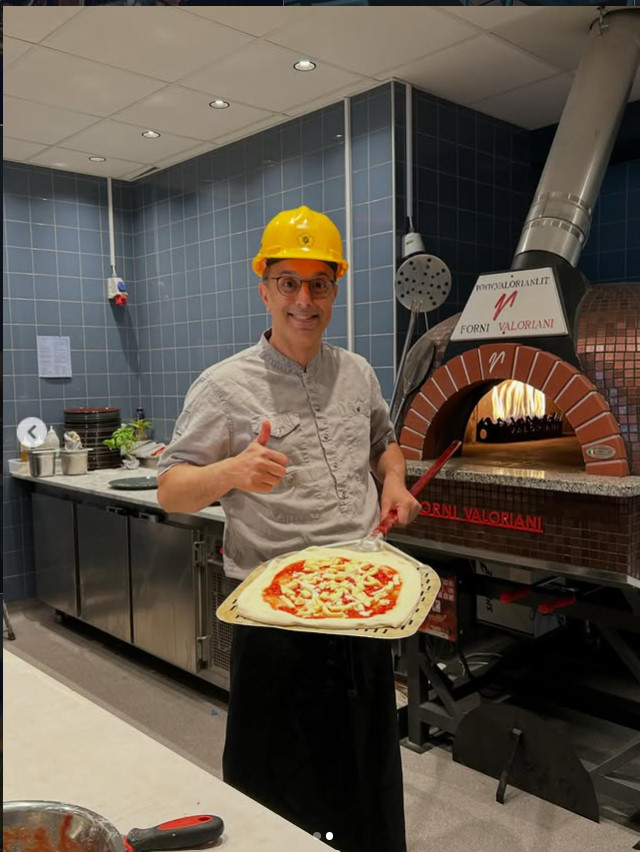
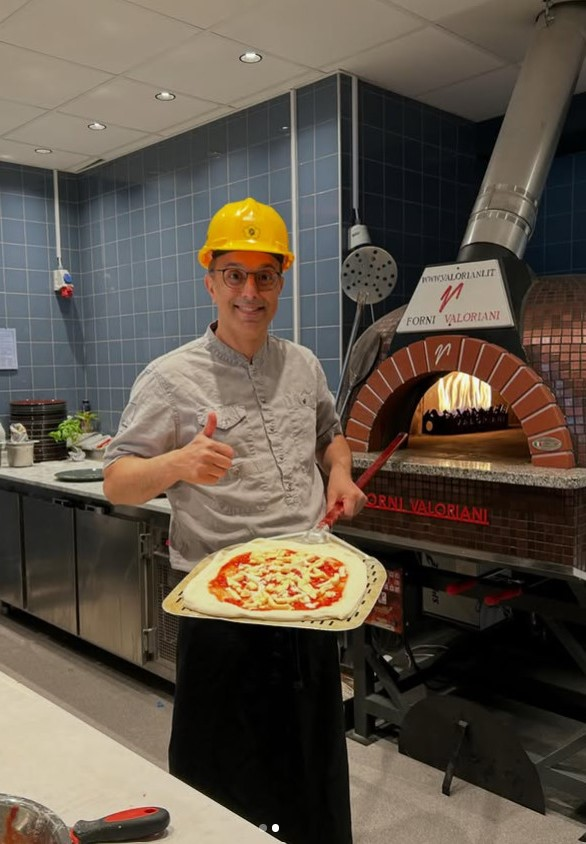
Update header background transparency and adjust mobile menu breakpoint

diff --git a/index.html b/index.html
@@ -20,9 +20,9 @@
     <header>
         <div class="container nav-container">
             <!-- Logo from assets/logo.webp -->
-            <a href="index.html" class="logo-container" aria-label="Don & Dolores Home">
+            <!-- <a href="index.html" class="logo-container" aria-label="Don & Dolores Home">
                 <img src="assets/logo.webp" alt="Don & Dolores Logo" class="logo-img">
-            </a>
+            </a> -->
 
             <!-- Nav Menu Links (Matched to screenshot exactly) -->
             <nav>
@@ -55,7 +55,7 @@
         <div class="hero-overlay"></div>
         <div class="container text-center">
             <!-- Centered Boxed Logo inside Hero -->
-            <div class="hero-logo-wrap" style="margin-bottom: 2rem;">
+            <div class="hero-logo-wrap" style="margin-top: 10rem;margin-bottom: 0px;">
                 <img src="assets/logo.webp" alt="Don & Dolores Logo" class="hero-logo-img"
                     style="width: 220px; height: auto;">
             </div>
@@ -94,9 +94,11 @@
                 </div>
                 <div class="welcome-content">
                     <span class="welcome-subtitle">WELCOME TO OUR HOME</span>
-                    <h2 class="welcome-title" style="margin-bottom: 2rem;">Don <span class="classic-amp">&amp;</span> <span
-                            class="italic-title-part">Dolores</span></h2>
-                    <p class="welcome-text">In the heart of Skellefteå's city center, Don <span class="classic-amp">&amp;</span> Dolores offers a fusion
+                    <h2 class="welcome-title" style="margin-bottom: 2rem;">Don <span class="classic-amp">&amp;</span>
+                        <span class="italic-title-part">Dolores</span>
+                    </h2>
+                    <p class="welcome-text">In the heart of Skellefteå's city center, Don <span
+                            class="classic-amp">&amp;</span> Dolores offers a fusion
                         between
                         the Swedish and the Italian. Here we let simple, good food made from great ingredients leave
                         room for conversation
@@ -109,7 +111,8 @@
                         Neapolitan pizza, handmade pasta, antipasti and cocktails — open every day of the week.
                     </div>
                     <div class="welcome-tag-pill">
-                        <span class="pill-icon">✦</span> A FUSION OF SWEDISH <span class="classic-amp">&amp;</span> ITALIAN
+                        <span class="pill-icon">✦</span> A FUSION OF SWEDISH <span class="classic-amp">&amp;</span>
+                        ITALIAN
                     </div>
                 </div>
             </div>
@@ -121,11 +124,14 @@
         <div class="container">
             <div class="welcome-grid">
                 <div class="welcome-content">
-                    <span class="welcome-subtitle">THE MAN BEHIND DON <span class="classic-amp">&amp;</span> DOLORES</span>
+                    <span class="welcome-subtitle">THE MAN BEHIND DON <span class="classic-amp">&amp;</span>
+                        DOLORES</span>
                     <h2 class="welcome-title" style="margin-bottom: 2rem;">Abbas <span
                             class="italic-title-part">Azemi</span></h2>
-                    <p class="welcome-text">Abbas Azemi is the founder of Don <span class="classic-amp">&amp;</span> Dolores. His passion for food
-                        combined with constantly exploring and evolving has led him to Don <span class="classic-amp">&amp;</span> Dolores.</p>
+                    <p class="welcome-text">Abbas Azemi is the founder of Don <span class="classic-amp">&amp;</span>
+                        Dolores. His passion for food
+                        combined with constantly exploring and evolving has led him to Don <span
+                            class="classic-amp">&amp;</span> Dolores.</p>
                     <div class="founder-quote">
                         "I want every guest to feel welcome — like at home, but a little tastier."
                     </div>
@@ -148,7 +154,8 @@
                     <span class="section-tag">ABOUT US</span>
                     <h2>A fusion of cultures</h2>
                     <p class="philosophy-text">
-                        Here at Don <span class="classic-amp">&amp;</span> Dolores, the deep flavors of Norrland intertwine with the rich Italian
+                        Here at Don <span class="classic-amp">&amp;</span> Dolores, the deep flavors of Norrland
+                        intertwine with the rich Italian
                         food culture. We take local northern ingredients and prepare them with true Italian love.
                         The result is simple, flavorful, and uncomplicated dishes that invite you to gather.
                     </p>
@@ -159,7 +166,8 @@
                         </div>
                         <div class="highlight-item">
                             <h4>Atmosphere <span class="classic-amp">&amp;</span> joy</h4>
-                            <p>A warm meeting place in the middle of town where conversations flow as freely as the wine.</p>
+                            <p>A warm meeting place in the middle of town where conversations flow as freely as the
+                                wine.</p>
                         </div>
                     </div>
                 </div>
@@ -194,7 +202,8 @@
                         <div>
                             <h3 class="event-title" style="font-family: 'Playfair Display', serif;">Neapolitan pizza
                             </h3>
-                            <p class="event-desc" style="margin-bottom: 1.5rem;">Authentic wood-fired pizzas made with San
+                            <p class="event-desc" style="margin-bottom: 1.5rem;">Authentic wood-fired pizzas made with
+                                San
                                 Marzano tomatoes, fresh mozzarella, and local ingredients.</p>
                         </div>
                         <a href="menu.html#pizza-category" class="activities-bottom-card-link">View pizzas &rarr;</a>
@@ -249,8 +258,10 @@
         <div class="container">
             <div class="activities-header">
                 <span class="activities-subtitle">The week with us</span>
-                <h2 class="activities-title">Activities <span class="classic-amp">&amp;</span> <span class="italic-title-part">events</span></h2>
-                <p class="activities-desc">There is always something happening at Don <span class="classic-amp">&amp;</span> Dolores. Here is a taste of what we
+                <h2 class="activities-title">Activities <span class="classic-amp">&amp;</span> <span
+                        class="italic-title-part">events</span></h2>
+                <p class="activities-desc">There is always something happening at Don <span
+                        class="classic-amp">&amp;</span> Dolores. Here is a taste of what we
                     have in store for you.</p>
             </div>
 
@@ -272,7 +283,8 @@
                         style="width: 100%; height: 200px; object-fit: cover; border-radius: 8px; margin-bottom: 1.5rem;">
                     <span class="activities-card-tag">Monthly</span>
                     <h3 class="activities-card-title">Quiz nights</h3>
-                    <p class="activities-card-body">Gather your team and compete in our popular quiz nights! Keep an eye on
+                    <p class="activities-card-body">Gather your team and compete in our popular quiz nights! Keep an eye
+                        on
                         our social media for dates and registration. Exciting prizes await.</p>
                 </div>
 
@@ -282,15 +294,16 @@
                         style="width: 100%; height: 200px; object-fit: cover; border-radius: 8px; margin-bottom: 1.5rem;">
                     <span class="activities-card-tag">Saturdays</span>
                     <h3 class="activities-card-title">Saturday pulse</h3>
-                    <p class="activities-card-body">Saturday nights are all about music. Troubadours, live bands, and DJs
+                    <p class="activities-card-body">Saturday nights are all about music. Troubadours, live bands, and
+                        DJs
                         create the perfect atmosphere for a memorable evening.</p>
                 </div>
             </div>
 
             <!-- Monthly Calendar Button -->
             <div class="activities-calendar-btn-wrap">
-                <a href="https://www.instagram.com/dondolores_skelleftea/" target="_blank"
-                    class="btn-calendar">Monthly calendar</a>
+                <a href="https://www.instagram.com/dondolores_skelleftea/" target="_blank" class="btn-calendar">Monthly
+                    calendar</a>
             </div>
 
             <!-- Bottom Row Grid (3 Cards) -->
@@ -331,8 +344,7 @@
             </div>
             <div class="faq-accordion" style="max-width: 800px; margin: 0 auto;">
                 <div class="faq-item">
-                    <button class="faq-question">How can I book a table?<span
-                            class="faq-icon">+</span></button>
+                    <button class="faq-question">How can I book a table?<span class="faq-icon">+</span></button>
                     <div class="faq-answer">
                         <p>You can book a table via our website or by contacting us directly by phone or email.</p>
                     </div>
@@ -341,20 +353,24 @@
                     <button class="faq-question">Do you offer vegetarian or vegan options?<span
                             class="faq-icon">+</span></button>
                     <div class="faq-answer">
-                        <p>Yes, we offer a variety of vegetarian options and can accommodate vegan preferences upon request. Our goal is to ensure everyone has a great dining experience.</p>
+                        <p>Yes, we offer a variety of vegetarian options and can accommodate vegan preferences upon
+                            request. Our goal is to ensure everyone has a great dining experience.</p>
                     </div>
                 </div>
                 <div class="faq-item">
-                    <button class="faq-question">Do you have gluten-free options?<span class="faq-icon">+</span></button>
+                    <button class="faq-question">Do you have gluten-free options?<span
+                            class="faq-icon">+</span></button>
                     <div class="faq-answer">
-                        <p>Yes, we offer gluten free options for customers with dietary restrictions, please inform our staff when ordering so we can assist you.</p>
+                        <p>Yes, we offer gluten free options for customers with dietary restrictions, please inform our
+                            staff when ordering so we can assist you.</p>
                     </div>
                 </div>
                 <div class="faq-item">
                     <button class="faq-question">Do you offer on-site dining, takeout or delivery?<span
                             class="faq-icon">+</span></button>
                     <div class="faq-answer">
-                        <p>We offer dine-in and takeout. Delivery options may vary – please contact us directly for current options.</p>
+                        <p>We offer dine-in and takeout. Delivery options may vary – please contact us directly for
+                            current options.</p>
                     </div>
                 </div>
             </div>
@@ -362,28 +378,40 @@
     </section>
 
     <!-- 6. FOOTER SECTION -->
-        <footer id="kontakt" style="background-color: #2e2d4d; color: #ffffff; padding: 4rem 0 2rem 0; font-family: 'Inter', sans-serif;">
+    <footer id="kontakt"
+        style="background-color: #2e2d4d; color: #ffffff; padding: 4rem 0 2rem 0; font-family: 'Inter', sans-serif;">
         <div class="container footer-grid" style="display: grid; grid-template-columns: repeat(4, 1fr); gap: 2rem;">
             <!-- Col 1: Brand Info -->
             <div class="footer-col">
-                <h3 style="font-family: 'Inter', sans-serif; font-weight: 500; font-size: 1.1rem; margin-bottom: 1.5rem; letter-spacing: 0.5px;">Don <span class="classic-amp">&amp;</span> Dolores</h3>
-                <p style="font-size: 0.85rem; line-height: 1.6; opacity: 0.9; margin-bottom: 1.5rem;">A fusion between Swedish and Italian. Simple, tasty food made with good ingredients that gives room for conversation and joy.</p>
+                <h3
+                    style="font-family: 'Inter', sans-serif; font-weight: 500; font-size: 1.1rem; margin-bottom: 1.5rem; letter-spacing: 0.5px;">
+                    Don <span class="classic-amp">&amp;</span> Dolores</h3>
+                <p style="font-size: 0.85rem; line-height: 1.6; opacity: 0.9; margin-bottom: 1.5rem;">A fusion between
+                    Swedish and Italian. Simple, tasty food made with good ingredients that gives room for conversation
+                    and joy.</p>
                 <div class="footer-socials" style="display: flex; gap: 10px;">
-                    <a href="https://www.facebook.com/dondolores.skelleftea/" target="_blank" aria-label="Facebook" style="display: flex; align-items: center; justify-content: center; width: 28px; height: 28px; background-color: #ffffff; border-radius: 50%; color: #2e2d4d;">
+                    <a href="https://www.facebook.com/dondolores.skelleftea/" target="_blank" aria-label="Facebook"
+                        style="display: flex; align-items: center; justify-content: center; width: 28px; height: 28px; background-color: #ffffff; border-radius: 50%; color: #2e2d4d;">
                         <svg width="14" height="14" viewBox="0 0 24 24" fill="currentColor">
-                            <path d="M18 2h-3a5 5 0 0 0-5 5v3H7v4h3v8h4v-8h3l1-4h-4V7a1 1 0 0 1 1-1h3z" stroke="currentColor" stroke-width="1.5" stroke-linecap="round" stroke-linejoin="round"/>
+                            <path d="M18 2h-3a5 5 0 0 0-5 5v3H7v4h3v8h4v-8h3l1-4h-4V7a1 1 0 0 1 1-1h3z"
+                                stroke="currentColor" stroke-width="1.5" stroke-linecap="round"
+                                stroke-linejoin="round" />
                         </svg>
                     </a>
-                    <a href="https://www.instagram.com/dondolores_skelleftea/" target="_blank" aria-label="Instagram" style="display: flex; align-items: center; justify-content: center; width: 28px; height: 28px; background-color: #ffffff; border-radius: 50%; color: #2e2d4d;">
-                        <svg width="14" height="14" viewBox="0 0 24 24" fill="none" stroke="currentColor" stroke-width="1.5" stroke-linecap="round" stroke-linejoin="round">
+                    <a href="https://www.instagram.com/dondolores_skelleftea/" target="_blank" aria-label="Instagram"
+                        style="display: flex; align-items: center; justify-content: center; width: 28px; height: 28px; background-color: #ffffff; border-radius: 50%; color: #2e2d4d;">
+                        <svg width="14" height="14" viewBox="0 0 24 24" fill="none" stroke="currentColor"
+                            stroke-width="1.5" stroke-linecap="round" stroke-linejoin="round">
                             <rect x="2" y="2" width="20" height="20" rx="5" ry="5"></rect>
                             <path d="M16 11.37A4 4 0 1 1 12.63 8 4 4 0 0 1 16 11.37z"></path>
                             <line x1="17.5" y1="6.5" x2="17.51" y2="6.5"></line>
                         </svg>
                     </a>
-                    <a href="#" aria-label="Tiktok" style="display: flex; align-items: center; justify-content: center; width: 28px; height: 28px; background-color: #ffffff; border-radius: 50%; color: #2e2d4d;">
+                    <a href="#" aria-label="Tiktok"
+                        style="display: flex; align-items: center; justify-content: center; width: 28px; height: 28px; background-color: #ffffff; border-radius: 50%; color: #2e2d4d;">
                         <svg width="14" height="14" viewBox="0 0 24 24" fill="currentColor">
-                            <path d="M12.525.02c1.31-.02 2.61-.01 3.91-.02.08 1.53.63 3.09 1.75 4.17 1.12 1.11 2.7 1.62 4.24 1.79v4.03c-1.44-.17-2.86-.74-3.99-1.72-.08-.07-.17-.17-.24-.26v6.23c.12 5.64-5.06 10.42-10.74 9.75-5.18-.5-9.35-5.26-8.9-10.49.39-4.83 4.67-8.77 9.53-8.25.13.01.26.04.39.06v4.09c-.1-.03-.21-.05-.31-.06-2.6-.33-5.02 1.34-5.55 3.91-.67 3.06 1.42 6.11 4.5 6.46 2.92.36 5.8-1.57 6.22-4.47.08-.5.06-1.02.06-1.53V.02z"/>
+                            <path
+                                d="M12.525.02c1.31-.02 2.61-.01 3.91-.02.08 1.53.63 3.09 1.75 4.17 1.12 1.11 2.7 1.62 4.24 1.79v4.03c-1.44-.17-2.86-.74-3.99-1.72-.08-.07-.17-.17-.24-.26v6.23c.12 5.64-5.06 10.42-10.74 9.75-5.18-.5-9.35-5.26-8.9-10.49.39-4.83 4.67-8.77 9.53-8.25.13.01.26.04.39.06v4.09c-.1-.03-.21-.05-.31-.06-2.6-.33-5.02 1.34-5.55 3.91-.67 3.06 1.42 6.11 4.5 6.46 2.92.36 5.8-1.57 6.22-4.47.08-.5.06-1.02.06-1.53V.02z" />
                         </svg>
                     </a>
                 </div>
@@ -391,25 +419,31 @@
 
             <!-- Col 2: Contact -->
             <div class="footer-col">
-                <h3 style="font-family: 'Inter', sans-serif; font-weight: 500; font-size: 1.1rem; margin-bottom: 1.5rem; letter-spacing: 0.5px;">Contact</h3>
+                <h3
+                    style="font-family: 'Inter', sans-serif; font-weight: 500; font-size: 1.1rem; margin-bottom: 1.5rem; letter-spacing: 0.5px;">
+                    Contact</h3>
                 <ul class="contact-list" style="list-style:none; padding:0; font-size: 0.85rem; opacity: 0.9;">
                     <li style="display:flex; align-items:center; gap: 8px; margin-bottom:12px;">
-                        <svg width="14" height="14" viewBox="0 0 24 24" fill="none" stroke="currentColor" stroke-width="2" stroke-linecap="round" stroke-linejoin="round">
-                            <path d="M22 16.92v3a2 2 0 0 1-2.18 2 19.79 19.79 0 0 1-8.63-3.07 19.5 19.5 0 0 1-6-6 19.79 19.79 0 0 1-3.07-8.67A2 2 0 0 1 4.11 2h3a2 2 0 0 1 2 1.72 12.84 12.84 0 0 0 .7 2.81 2 2 0 0 1-.45 2.11L8.09 9.91a16 16 0 0 0 6 6l1.27-1.27a2 2 0 0 1 2.11-.45 12.84 12.84 0 0 0 2.81.7A2 2 0 0 1 22 16.92z"/>
+                        <svg width="14" height="14" viewBox="0 0 24 24" fill="none" stroke="currentColor"
+                            stroke-width="2" stroke-linecap="round" stroke-linejoin="round">
+                            <path
+                                d="M22 16.92v3a2 2 0 0 1-2.18 2 19.79 19.79 0 0 1-8.63-3.07 19.5 19.5 0 0 1-6-6 19.79 19.79 0 0 1-3.07-8.67A2 2 0 0 1 4.11 2h3a2 2 0 0 1 2 1.72 12.84 12.84 0 0 0 .7 2.81 2 2 0 0 1-.45 2.11L8.09 9.91a16 16 0 0 0 6 6l1.27-1.27a2 2 0 0 1 2.11-.45 12.84 12.84 0 0 0 2.81.7A2 2 0 0 1 22 16.92z" />
                         </svg>
                         <a href="tel:+46910790070">+46 910 79 00 70</a>
                     </li>
                     <li style="display:flex; align-items:center; gap: 8px; margin-bottom:12px;">
-                        <svg width="14" height="14" viewBox="0 0 24 24" fill="none" stroke="currentColor" stroke-width="2" stroke-linecap="round" stroke-linejoin="round">
-                            <path d="M4 4h16c1.1 0 2 .9 2 2v12c0 1.1-.9 2-2 2H4c-1.1 0-2-.9-2-2V6c0-1.1.9-2 2-2z"/>
-                            <polyline points="22,6 12,13 2,6"/>
+                        <svg width="14" height="14" viewBox="0 0 24 24" fill="none" stroke="currentColor"
+                            stroke-width="2" stroke-linecap="round" stroke-linejoin="round">
+                            <path d="M4 4h16c1.1 0 2 .9 2 2v12c0 1.1-.9 2-2 2H4c-1.1 0-2-.9-2-2V6c0-1.1.9-2 2-2z" />
+                            <polyline points="22,6 12,13 2,6" />
                         </svg>
                         <a href="mailto:[email redacted]">[email redacted]</a>
                     </li>
                     <li style="display:flex; align-items:flex-start; gap: 8px;">
-                        <svg width="14" height="14" viewBox="0 0 24 24" fill="none" stroke="currentColor" stroke-width="2" stroke-linecap="round" stroke-linejoin="round" style="margin-top: 3px;">
-                            <path d="M21 10c0 7-9 13-9 13s-9-6-9-13a9 9 0 0 1 18 0z"/>
-                            <circle cx="12" cy="10" r="3"/>
+                        <svg width="14" height="14" viewBox="0 0 24 24" fill="none" stroke="currentColor"
+                            stroke-width="2" stroke-linecap="round" stroke-linejoin="round" style="margin-top: 3px;">
+                            <path d="M21 10c0 7-9 13-9 13s-9-6-9-13a9 9 0 0 1 18 0z" />
+                            <circle cx="12" cy="10" r="3" />
                         </svg>
                         <a href="#" target="_blank">Kanalgatan 43, 931 29<br>Skelleftea, Sweden</a>
                     </li>
@@ -418,8 +452,11 @@
 
             <!-- Col 3: Quick Links -->
             <div class="footer-col">
-                <h3 style="font-family: 'Inter', sans-serif; font-weight: 500; font-size: 1.1rem; margin-bottom: 1.5rem; letter-spacing: 0.5px;">Quick links</h3>
-                <ul class="footer-links" style="list-style:none; padding:0; font-size: 0.85rem; text-transform: uppercase; line-height: 2; opacity: 0.9;">
+                <h3
+                    style="font-family: 'Inter', sans-serif; font-weight: 500; font-size: 1.1rem; margin-bottom: 1.5rem; letter-spacing: 0.5px;">
+                    Quick links</h3>
+                <ul class="footer-links"
+                    style="list-style:none; padding:0; font-size: 0.85rem; text-transform: uppercase; line-height: 2; opacity: 0.9;">
                     <li><a href="menu.html">MENU</a></li>
                     <li><a href="index.html#aktiviteter">ACTIVITIES</a></li>
                     <li><a href="gallery.html">GALLERY</a></li>
@@ -431,8 +468,11 @@
 
             <!-- Col 4: Opening hours -->
             <div class="footer-col">
-                <h3 style="font-family: 'Inter', sans-serif; font-weight: 500; font-size: 1.1rem; margin-bottom: 1.5rem; letter-spacing: 0.5px;">Opening hours</h3>
-                <div class="hours-list" style="font-size: 0.85rem; opacity: 0.9; display: grid; grid-template-columns: 1fr auto; row-gap: 4px;">
+                <h3
+                    style="font-family: 'Inter', sans-serif; font-weight: 500; font-size: 1.1rem; margin-bottom: 1.5rem; letter-spacing: 0.5px;">
+                    Opening hours</h3>
+                <div class="hours-list"
+                    style="font-size: 0.85rem; opacity: 0.9; display: grid; grid-template-columns: 1fr auto; row-gap: 4px;">
                     <span>Monday</span><span>15 - late</span>
                     <span>Tuesday</span><span>15 - late</span>
                     <span>Wednesday</span><span>15 - late</span>
@@ -441,15 +481,19 @@
                     <span>Saturday</span><span>12 - late</span>
                     <span>Sunday</span><span>15 - late</span>
                 </div>
-                <button class="btn open-booking" style="margin-top: 1.2rem; display: inline-block; background-color: #D6E4F0; color: #1C1D30; font-size: 0.75rem; padding: 0.6rem 1.2rem; border-radius: 2px;">BOOK A TABLE</button>
+                <button class="btn open-booking"
+                    style="margin-top: 1.2rem; display: inline-block; background-color: #D6E4F0; color: #1C1D30; font-size: 0.75rem; padding: 0.6rem 1.2rem; border-radius: 2px;">BOOK
+                    A TABLE</button>
             </div>
         </div>
 
         <!-- Footer Bottom -->
         <div class="container">
-            <div class="footer-bottom" style="display:flex; justify-content:space-between; align-items:flex-start; margin-top:3rem; padding-top:1.5rem; border-top:1px solid rgba(255,255,255,0.2); font-size: 0.85rem;">
+            <div class="footer-bottom"
+                style="display:flex; justify-content:space-between; align-items:flex-start; margin-top:3rem; padding-top:1.5rem; border-top:1px solid rgba(255,255,255,0.2); font-size: 0.85rem;">
                 <span class="footer-copy">© 2026 Don &amp; Dolores. All rights reserved.</span>
-                <span class="footer-note" style="text-align:left; opacity: 0.9;">We currently do not offer home delivery or online ordering. You<br>are welcome to visit us in person!</span>
+                <span class="footer-note" style="text-align:left; opacity: 0.9;">We currently do not offer home delivery
+                    or online ordering. You<br>are welcome to visit us in person!</span>
             </div>
         </div>
     </footer>
@@ -486,7 +530,8 @@
                 <div class="booking-step" id="step2">
                     <div class="selection-summary" data-translate="dinner">Dinner</div>
                     <p data-translate="selectGuestsTitle"
-                        style="font-size: 0.8rem; font-weight:700; margin: 1rem 0 0.5rem; letter-spacing:1px;">SELECT NUMBER OF GUESTS</p>
+                        style="font-size: 0.8rem; font-weight:700; margin: 1rem 0 0.5rem; letter-spacing:1px;">SELECT
+                        NUMBER OF GUESTS</p>
                     <ul class="guest-list">
                         <li><button class="guest-btn" data-guests-count="1" onclick="selectGuests(1)">1 guest</button>
                         </li>
@@ -649,11 +694,13 @@
                         <span class="current-lang">English</span>
                     </button>
                     <div class="lang-dropdown">
-                        <button class="lang-dropdown-option" data-lang="sv" style="background: none; border: none; width: 100%; text-align: left; display: flex; justify-content: space-between; align-items: center; font-size: 0.8rem; padding: 8px 12px; cursor: pointer;">
+                        <button class="lang-dropdown-option" data-lang="sv"
+                            style="background: none; border: none; width: 100%; text-align: left; display: flex; justify-content: space-between; align-items: center; font-size: 0.8rem; padding: 8px 12px; cursor: pointer;">
                             <span>Swedish</span>
                             <span class="check-icon" style="display: none;">✓</span>
                         </button>
-                        <button class="lang-dropdown-option active" data-lang="en" style="background: none; border: none; width: 100%; text-align: left; display: flex; justify-content: space-between; align-items: center; font-size: 0.8rem; padding: 8px 12px; cursor: pointer;">
+                        <button class="lang-dropdown-option active" data-lang="en"
+                            style="background: none; border: none; width: 100%; text-align: left; display: flex; justify-content: space-between; align-items: center; font-size: 0.8rem; padding: 8px 12px; cursor: pointer;">
                             <span>English</span>
                             <span class="check-icon">✓</span>
                         </button>

diff --git a/css/main.css b/css/main.css
@@ -101,7 +101,8 @@ header {
     width: 100%;
     z-index: 1000;
     padding: 1rem 0;
-    background: transparent;
+    background: rgba(46, 46, 77, 0.6);
+    backdrop-filter: blur(10px);
     border-bottom: 1px solid transparent;
     transition: background 0.3s ease, padding 0.3s ease, border-color 0.3s ease;
 }
@@ -824,6 +825,8 @@ footer {
     .events-grid {
         grid-template-columns: 1fr 1fr;
     }
+}
+@media (max-width: 800px) {
     .nav-menu {
         display: none;
     }